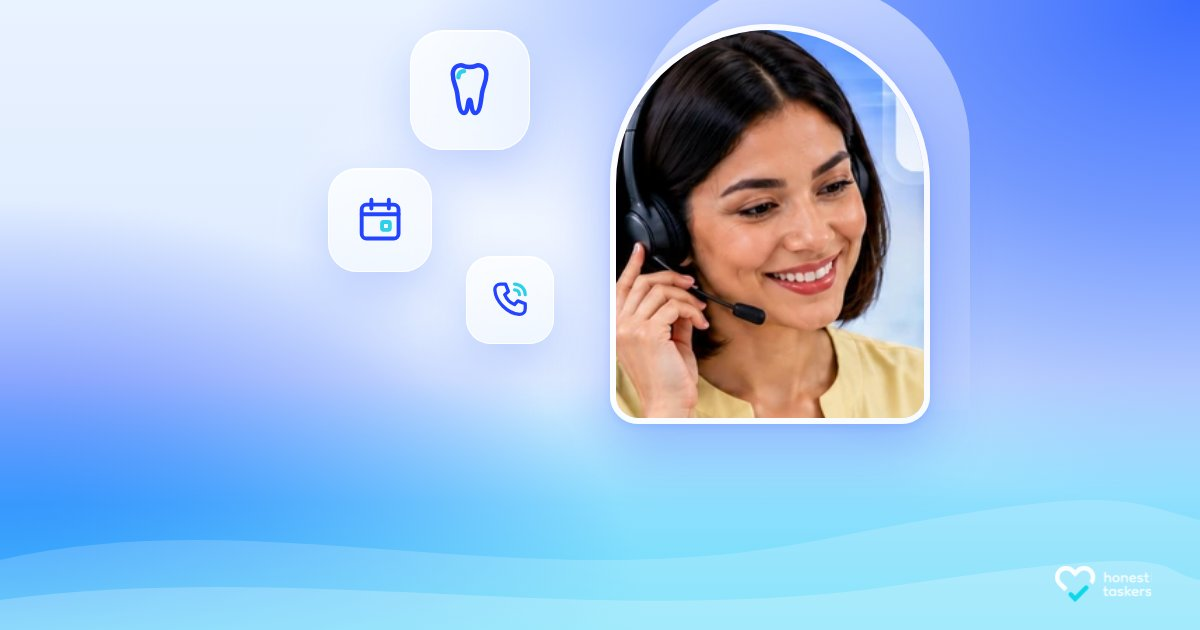
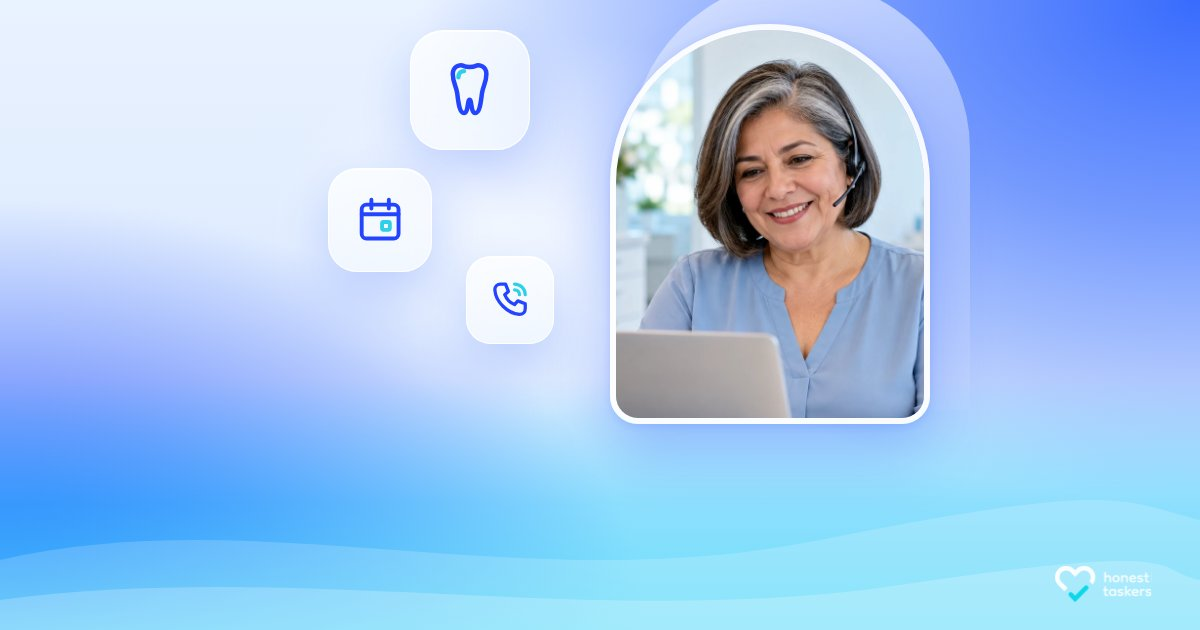
v8: p01 uses the new ChatGPT photo; photo helper handles any aspect ratio
Claude-Session: https://claude.ai/code/session_01AHsVWFWnB54Ytwp6awPeMf

Changed region(s): [[0.4933, 0.0302, 0.7708, 0.6635]]

diff --git a/blog-image-research/v8/page/index.html b/blog-image-research/v8/page/index.html
@@ -39,7 +39,7 @@ th { font:500 .74rem var(--mono); text-transform:uppercase; letter-spacing:.06em
 <div class="eyebrow">Cover designs · v8 · preview</div>
 <h1>10 photo covers with real people: layout preview</h1>
 <p class="lede">These are the 10 layouts for the people covers. Each has a different frame: arch window, orbit portrait, your current full-photo look, video call, polaroid, phone screen, diagonal split, blob portrait, blue duotone, side-by-side cards. All use the same see-through gradient and frosted glass as the 72 word-free covers, and none has words on it.</p>
-<p class="lede"><b>The people shown are stand-ins</b> from your current images. They show why new photos are needed: they look alike, and some still carry the old floating tiles (most visible in P03 and P09). After you share your Figma plan key, I'll generate 10 new, clearly different people and drop them into these exact layouts.</p>
+<p class="lede"><b>P01 now uses the first new photo</b> (made with ChatGPT from the prompts). <b>The other nine people are still stand-ins</b> from your current images. They show why new photos are needed: they look alike, and some still carry the old floating tiles (most visible in P03 and P09). After you share your Figma plan key, I'll generate 10 new, clearly different people and drop them into these exact layouts.</p>
 <div class="grid3"><figure><img src="a/p01.jpg" alt="What Skills Does a Virtual Dental Assistant Need?" loading="lazy"><figcaption><span class="n">P01 · Arch window</span><b>What Skills Does a Virtual Dental Assistant Need?</b></figcaption></figure><figure><img src="a/p02.jpg" alt="7 Best Virtual Medical Assistant Companies for Specialty Veterinary Hospitals" loading="lazy"><figcaption><span class="n">P02 · Orbit portrait</span><b>7 Best Virtual Medical Assistant Companies for Specialty Veterinary Hospitals</b></figcaption></figure><figure><img src="a/p03.jpg" alt="How to Hire an Internal Medicine Virtual Medical Assistant" loading="lazy"><figcaption><span class="n">P03 · Current look, refined</span><b>How to Hire an Internal Medicine Virtual Medical Assistant</b></figcaption></figure><figure><img src="a/p04.jpg" alt="9 Best After-Hours Medical Answering Service Companies" loading="lazy"><figcaption><span class="n">P04 · Call window</span><b>9 Best After-Hours Medical Answering Service Companies</b></figcaption></figure><figure><img src="a/p05.jpg" alt="Veterinary Billing Virtual Assistant Interview Questions" loading="lazy"><figcaption><span class="n">P05 · Polaroid</span><b>Veterinary Billing Virtual Assistant Interview Questions</b></figcaption></figure><figure><img src="a/p06.jpg" alt="Medical Answering Service Outsourcing Services" loading="lazy"><figcaption><span class="n">P06 · Phone screen</span><b>Medical Answering Service Outsourcing Services</b></figcaption></figure><figure><img src="a/p07.jpg" alt="In-House Staff vs. Virtual Team for Multi-Specialty Medical Groups: Key Differences and Which to Choose" loading="lazy"><figcaption><span class="n">P07 · Diagonal split</span><b>In-House Staff vs. Virtual Team for Multi-Specialty Medical Groups: Key Differences and Which to Choose</b></figcaption></figure><figure><img src="a/p08.jpg" alt="7 Best Medical Transcription Outsourcing Companies" loading="lazy"><figcaption><span class="n">P08 · Blob portrait</span><b>7 Best Medical Transcription Outsourcing Companies</b></figcaption></figure><figure><img src="a/p09.jpg" alt="How Much Does an Orthopedics VMA Cost?" loading="lazy"><figcaption><span class="n">P09 · Duotone</span><b>How Much Does an Orthopedics VMA Cost?</b></figcaption></figure><figure><img src="a/p10.jpg" alt="Virtual Medical Scribe vs In-House Staff" loading="lazy"><figcaption><span class="n">P10 · Side-by-side cards</span><b>Virtual Medical Scribe vs In-House Staff</b></figcaption></figure></div>
 <h2>Who goes in when we generate</h2>
 <ol><li>Nigerian woman, braided updo, scrubs</li><li>Filipino man, short undercut, home office</li><li>Indian woman, long braid, clinic desk</li><li>Somali woman in a hijab, care coordination</li><li>Irish woman, curly red hair, freckles, vet clinic</li><li>Korean man, glasses, side part, billing</li><li>Mexican woman, about 55, grey-streaked bob, dental office</li><li>Black American man, about 45, shaved head and beard, telehealth</li><li>Brazilian woman, natural curls, therapy practice</li><li>Vietnamese woman, pixie cut, scheduling on two monitors</li></ol>

diff --git a/blog-image-research/v8/templates/scenes-photo.js b/blog-image-research/v8/templates/scenes-photo.js
@@ -2,8 +2,9 @@
 // Photos here are STAND-INS from the current covers; swap the file names when the new, diverse people are generated.
 (() => {
 const S = window.SCENES;
+window.PHOTO_AR = { 'p01-dental': 1536 / 1024 };  // new 3:2 photos
 const F = {
-  dental: ['what-skills-does-a-virtual-dental-assistant-need', [65, 22]],
+  dental: ['p01-dental', [46, 29]],
   vet: ['7-best-virtual-medical-assistant-companies-for-specialty-veterinary-hospitals', [58, 20]],
   internal: ['how-to-hire-an-internal-medicine-virtual-medical-assistant', [43, 25]],
   afterhours: ['9-best-after-hours-medical-answering-service-companies', [30, 22]],
@@ -19,7 +20,7 @@ const shadow = '0 26px 60px rgba(19,68,253,.28), 0 2px 8px rgba(19,68,253,.12)';
 // p01 Arch window: the person framed in a tall arch, specialty tiles stepping down beside it.
 S.p01 = { title: 'What Skills Does a Virtual Dental Assistant Need?', style: 'Arch window', draw({ photo, tile, svg }) {
   svg(`<path d="M600 430 V170 A170 170 0 0 1 940 170 V430Z" fill="url(#gGhost)" transform="translate(30,-20)"/>`);
-  photo(F.dental[0], F.dental[1], 610, 24, 320, 400, 160, 120, 2.2, '160px 160px 28px 28px', { boxShadow: shadow, border: '6px solid rgba(255,255,255,.9)' });
+  photo(F.dental[0], F.dental[1], 610, 24, 320, 400, 165, 150, 1.25, '160px 160px 28px 28px', { boxShadow: shadow, border: '6px solid rgba(255,255,255,.9)' });
   tile('tooth', 470, 90, 120); tile('calendar', 380, 220, 104); tile('phone', 510, 300, 88);
 } };
 

diff --git a/blog-image-research/v8/templates/cover.html b/blog-image-research/v8/templates/cover.html
@@ -62,7 +62,8 @@
   // photo(src, focal[x%,y%], x, y, w, h, tx, ty, zoom, radius): crop of an existing HT photo (v3/photos), focal point placed at (tx, ty) in the panel.
   function photo(src, focal, x, y, w, h, tx, ty, zoom = 1, radius = 0, st = {}) {
     const p = add('panel', { left: x, top: y, width: w, height: h, borderRadius: radius, ...st });
-    const k = Math.max(w / 1200, h / 630) * zoom, iw = 1200 * k, ih = 630 * k;
+    const ar = (window.PHOTO_AR || {})[src] || 1200 / 630, W0 = 1200, H0 = 1200 / ar;   // photos can be any aspect ratio
+    const k = Math.max(w / W0, h / H0) * zoom, iw = W0 * k, ih = H0 * k;
     let l = tx - focal[0] / 100 * iw, t = ty - focal[1] / 100 * ih; l = Math.min(0, Math.max(w - iw, l)); t = Math.min(0, Math.max(h - ih, t));
     p.innerHTML = `<img src="../photos/${src}.webp" style="width:${iw}px;height:${ih}px;left:${l}px;top:${t}px">`; return p;
   }
